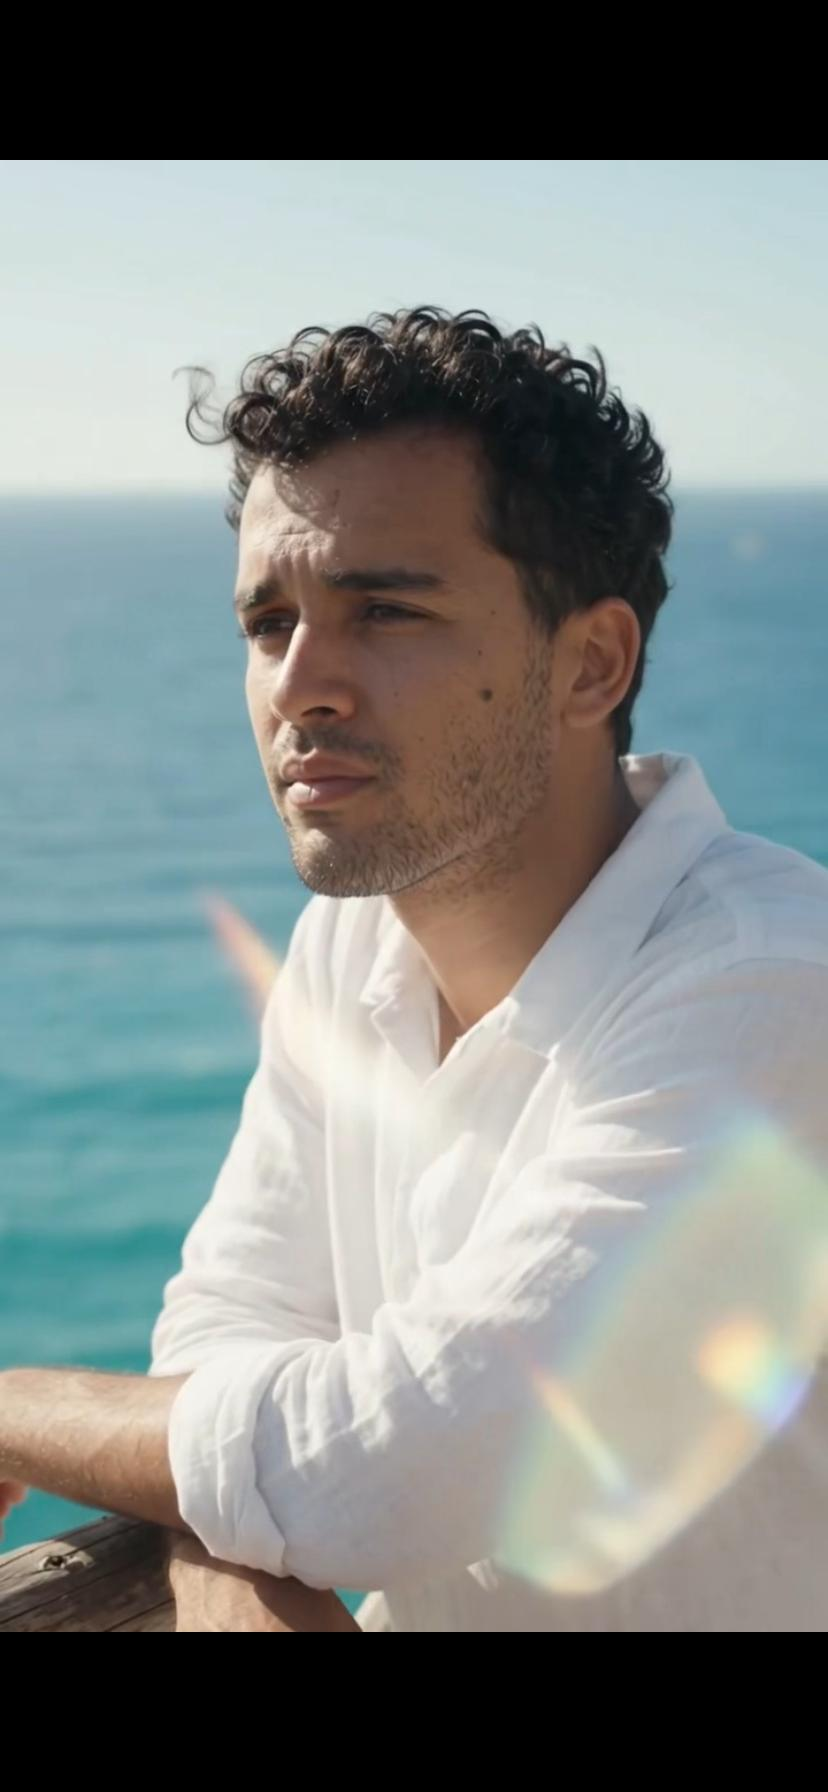
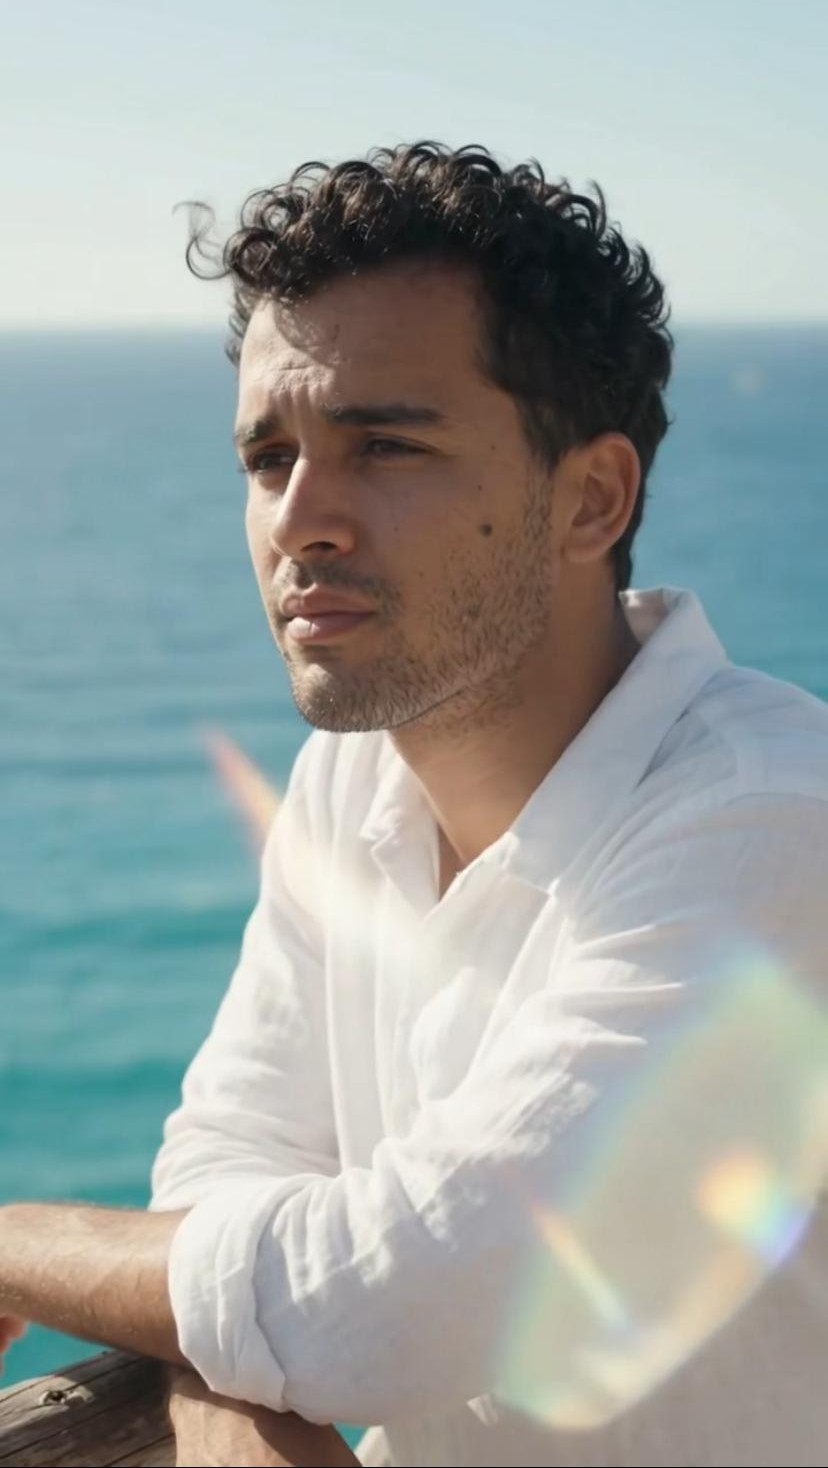
fix: update profile picture with cropped image (removed black borders) and exact 1:1 circular ratio

diff --git a/README.md b/README.md
@@ -1,5 +1,5 @@
 <p align="center">
-  <img src="./perfil.jpeg" alt="Rikelmif" width="140" style="border-radius: 50%; object-fit: cover;" />
+  <img src="./perfil.jpeg" alt="Rikelmif" width="150" height="150" style="border-radius: 50%; object-fit: cover;" />
 </p>
 
 <h1 align="center">Hi there, I'm Rikelmif (Ruan) 👋</h1>
